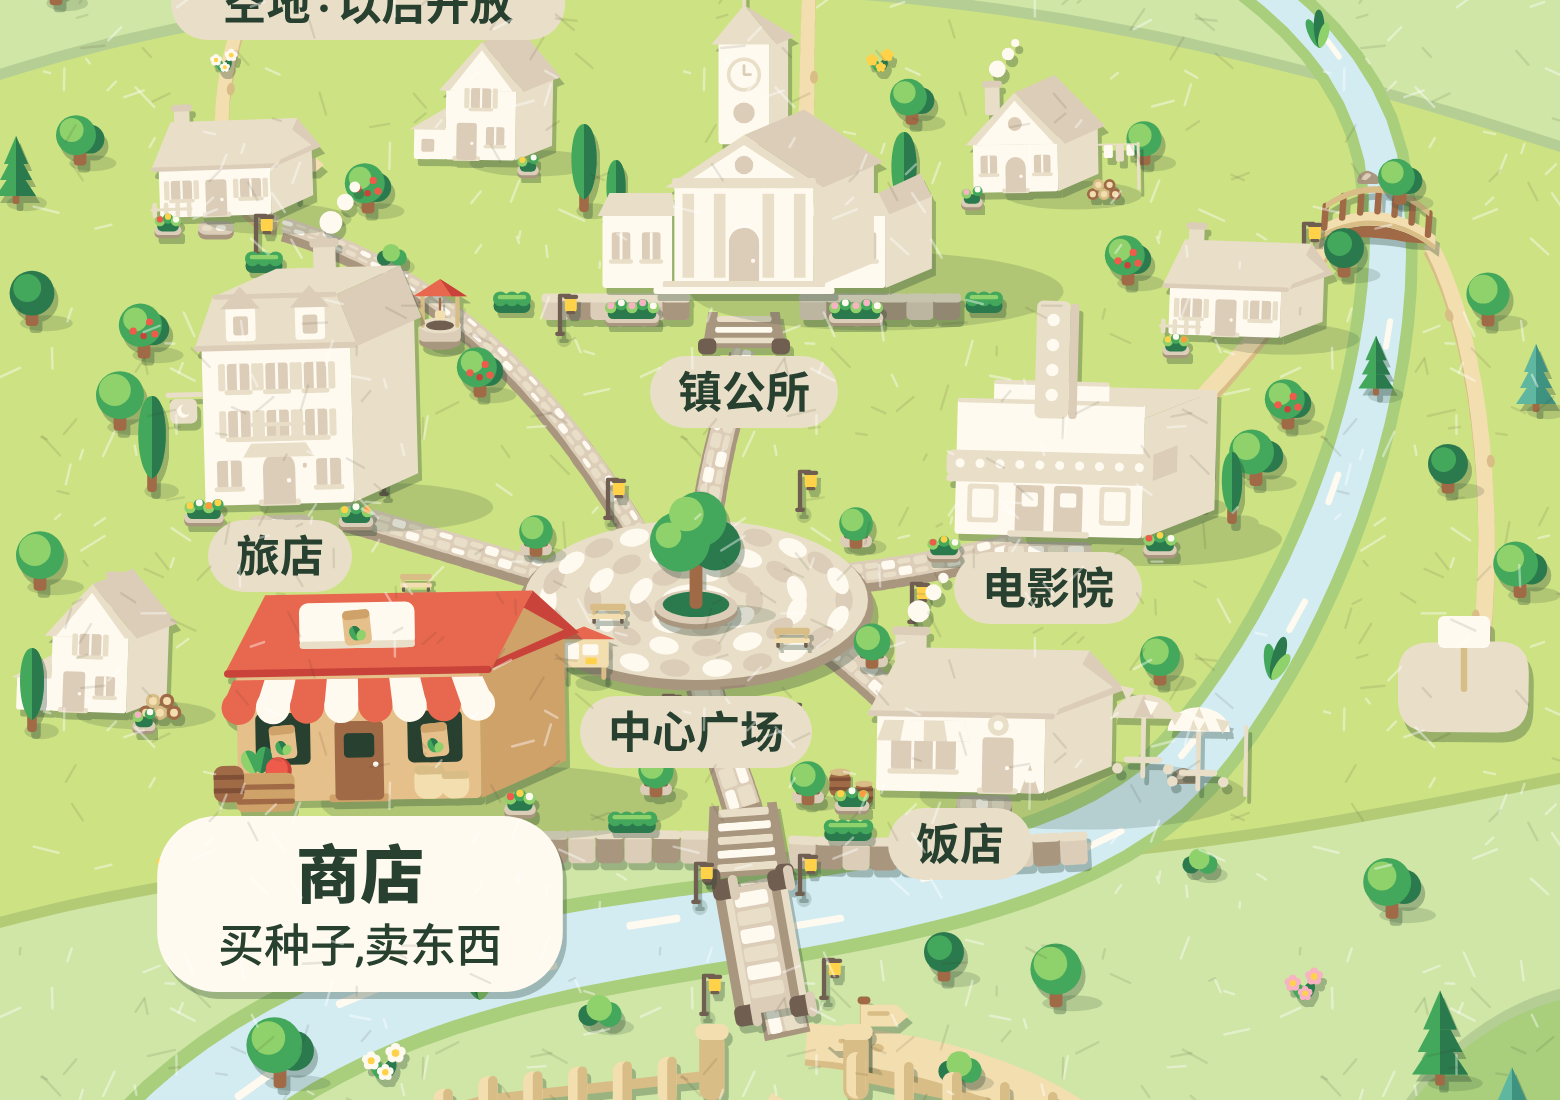
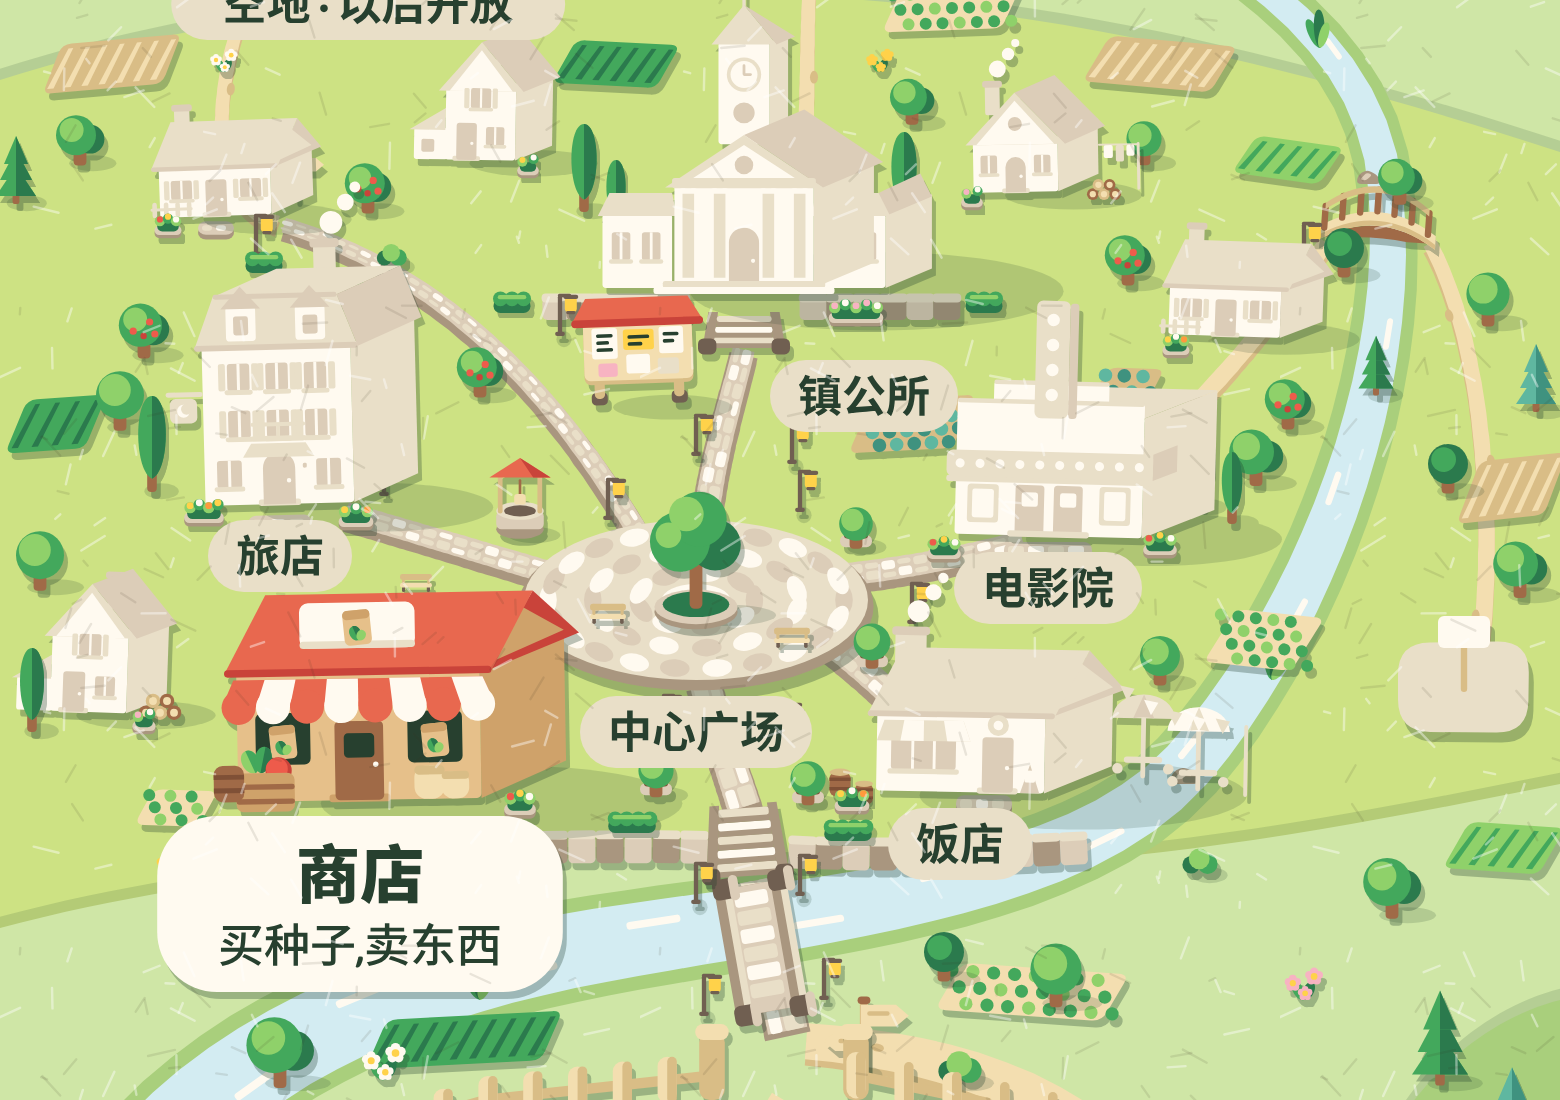
Add a notice board, move the well and add residents' fields to the town map
The owner asked for three changes to the refined town map: the well
closer to the plaza, a large notice board at the town hall door, and
fields filling the empty ground around and inside the town.

The fields are scenery only. They are drawn as slanted strips of rows
rather than the player's plot tiles, with no dry or wet soil colours and
no markers, so they are not read as plots that can be watered.

Claude-Session: https://claude.ai/code/session_01KLGgNiBMSN7hBEJrAWaBKj

diff --git a/docs/design/town-map/props.js b/docs/design/town-map/props.js
@@ -1,4 +1,4 @@
-// props.js —— 镇上的小东西:石板路、石桥、台阶、挡土墙、路灯、花坛、行道树、路牌、布告栏、水井、长椅。
+// props.js —— 镇上和镇子周围的小东西:石板路、石桥、台阶、挡土墙、路灯、花坛、行道树、路牌、告示牌、水井、长椅、居民的田。
 //
 // 负责人看过第三轮说镇上还是太简单,缺装饰。这些东西不是"地点",只是景:它们有颜色,不管旁边的房子开没开放。
 // 石头用岩石那一组(岩石浅、岩石、岩石深)加纸白暗,木头用木色,灯是一张玉米黄的纸(不发光),都没有新增颜色。
@@ -261,6 +261,86 @@
       rrect(0.6, -9, 4.6, 2.6, 0.6, C.yellow)
     );
   }
+  /** 大告示牌:立在镇公所门口。两根粗木桩,一块宽木板,顶上一道小屋檐,板上贴满了纸。 */
+  function noticeBig() {
+    return (
+      rrect(-15, -4, 5, 4, 1.4, R.rockD) +
+      rrect(10, -4, 5, 4, 1.4, R.rockD) +
+      rrect(-14, -24, 3.2, 22, 1.4, C.woodD) +
+      rrect(10.8, -24, 3.2, 22, 1.4, C.woodD) +
+      rrect(-17, -25.4, 34, 19, 2, C.woodD) +
+      rrect(-17, -26.6, 34, 19, 2, C.wood) +
+      poly(
+        [
+          [-20.6, -25.6],
+          [-16, -33.4],
+          [16, -33.4],
+          [20.6, -25.6],
+        ],
+        C.roof,
+      ) +
+      rrect(-20.6, -26.8, 41.2, 2.4, 1.2, C.redD) +
+      rrect(-14.4, -24, 8, 9.6, 0.9, C.white) +
+      rrect(-13, -22.2, 5.2, 1.1, 0.5, C.ink) +
+      rrect(-13, -20, 4, 1.1, 0.5, C.ink) +
+      rrect(-13, -17.8, 5.2, 1.1, 0.5, C.ink) +
+      rrect(-4.6, -23.4, 9.6, 6.4, 0.9, C.yellow) +
+      rrect(-3.2, -21.6, 6.8, 1.1, 0.5, C.ink) +
+      rrect(-3.2, -19.4, 4.6, 1.1, 0.5, C.ink) +
+      rrect(6.6, -24, 7.6, 8.4, 0.9, C.white) +
+      rrect(7.8, -22.2, 5, 1.1, 0.5, C.ink) +
+      rrect(7.8, -20, 3.6, 1.1, 0.5, C.ink) +
+      rrect(-3.8, -15.6, 7.4, 6, 0.9, C.white) +
+      rrect(-12.6, -13, 6, 4.2, 0.9, C.pink) +
+      rrect(6, -14.2, 6.6, 5, 0.9, C.whiteD)
+    );
+  }
+  /**
+   * 镇子周围的一块田:居民种的,只是景,不能点,也不表示任何状态。
+   * 故意画得和玩家农场里的地块不一样:是一整片斜着的田,一垄一垄的,没有一格一格的地块,没有干土和湿土,也没有水滴和星。
+   *   kind 0 刚翻过的地  1 一垄垄的菜  2 密密的青苗  3 一颗颗的包菜  4 高秆的庄稼
+   * 原点在田的正中;w、h 是宽和进深,sk 是往右上斜多少。
+   */
+  function plot(w, h, kind, sk) {
+    sk = sk == null ? h * 0.5 : sk;
+    var base = [C.woodD, C.wood, C.leafL, C.woodD, C.leaf][kind],
+      o = rpoly(
+        [
+          [-w / 2 - sk / 2, h / 2],
+          [-w / 2 + sk / 2, -h / 2],
+          [w / 2 + sk / 2, -h / 2],
+          [w / 2 - sk / 2, h / 2],
+        ],
+        2.4,
+        base,
+      ),
+      rows = Math.max(3, Math.round(w / 4.6)),
+      i,
+      j;
+    for (i = 0; i < rows; i++) {
+      var t = (i + 0.5) / rows,
+        x0 = -w / 2 + t * w;
+      // 一垄:从近处的一头斜着伸到远处的一头
+      if (kind === 0 || kind === 2 || kind === 4)
+        o += poly(
+          [
+            [x0 - sk / 2 - 0.8, h / 2 - 1.2],
+            [x0 + sk / 2 - 0.6, -h / 2 + 1.2],
+            [x0 + sk / 2 + 0.6, -h / 2 + 1.2],
+            [x0 - sk / 2 + 0.8, h / 2 - 1.2],
+          ],
+          [C.wood, '', C.leaf, '', C.leafD][kind],
+        );
+      else {
+        var n = Math.max(2, Math.round(h / 3.6));
+        for (j = 0; j < n; j++) {
+          var u = (j + 0.5) / n;
+          o += circ(x0 - sk / 2 + sk * (1 - u), h / 2 - u * h, kind === 1 ? 1.5 : 1.7, kind === 1 ? ((i + j) % 3 ? C.leaf : C.leafL) : (i + j) % 2 ? C.teal : C.tealD);
+        }
+      }
+    }
+    return o;
+  }
   /** 水井:一圈石头,两根木柱撑着一个小屋顶,横梁上吊着一只木桶。 */
   function well() {
     return (
@@ -344,6 +424,8 @@
     streetTree: streetTree,
     signpost: signpost,
     notice: notice,
+    plot: plot,
+    noticeBig: noticeBig,
     well: well,
     bench: bench,
     woodpile: woodpile,

diff --git a/docs/design/town-map/valley.js b/docs/design/town-map/valley.js
@@ -251,6 +251,38 @@
     S.ground += g('', at(190, 487, P.stoneBridge(32, 14), 80), K.SH);
     S.ground += g('', at(344, 308, P.archBridge(26, 5), 4), K.SH);
 
+    // ----- 镇子周围和镇里空着的地方:居民的田。只是景,不能点 -----
+    var plots = '';
+    [
+      // 远处,湖边的草地上:最小
+      [40, 210, 30, 7, 2, 0.8, -3],
+      [104, 206, 24, 6, 0, 0.8, 2],
+      [322, 226, 22, 6, 4, 0.8, 4],
+      // 镇子北边
+      [28, 266, 30, 12, 0, 1, -5],
+      [154, 266, 26, 11, 4, 1, 3],
+      [238, 252, 30, 11, 1, 1, -2],
+      [290, 266, 32, 12, 0, 1, 5],
+      [322, 290, 22, 10, 2, 1, 8],
+      // 镇子里
+      [228, 356, 26, 13, 3, 1, -3],
+      [86, 322, 14, 8, 1, 1, -2],
+      [282, 346, 14, 8, 3, 1, 2],
+      [44, 452, 16, 9, 1, 1, 2],
+      [14, 356, 20, 13, 4, 1, -4],
+      // 河湾里和河对岸
+      [316, 410, 22, 14, 1, 1, 6],
+      [378, 372, 22, 15, 0, 1, -6],
+      [376, 462, 24, 12, 2, 1, 4],
+      // 河这边,农场外面
+      [258, 498, 38, 11, 1, 1.1, 4],
+      [116, 510, 40, 11, 4, 1.1, -3],
+      [340, 492, 0, 0, 0, 0, 0],
+    ].forEach(function (q) {
+      if (q[2]) plots += at(q[0], q[1], P.plot(q[2], q[3], q[4]), q[6], q[5]);
+    });
+    S.ground += g('', plots, K.SH);
+
     // ----- 广场、空地 -----
     S.ground += g('', at(174, 400, P.plazaFloor(43, 20, opt.open === 'all' ? { a: C.wood, b: C.woodD } : { a: C.white, b: C.whiteD })), K.SHT);
     S.put(174, 403, P.plazaTree(), 0.8, 0, 26);
@@ -266,7 +298,7 @@
 
     // ----- 镇上:沿着缓坡错落,远的小、近的大 -----
     S.put(186, 322, B.hall(toneOf('hall', opt)), 0.58, 0, 130, 26);
-    S.tag(186, 339, '镇公所');
+    S.tag(216, 340, '镇公所');
     S.put(54, 304, B.cottage(toneOf('cottage0', opt), 0), 0.48, -2, 62, 22);
     S.put(120, 290, B.cottage(toneOf('cottage1', opt), 1), 0.46, 1, 56, 20);
     S.put(254, 298, B.cottage(toneOf('cottage2', opt), 2), 0.46, -1, 60, 22);
@@ -290,8 +322,8 @@
       [200, 378],
       [122, 412],
       [228, 406],
-      [170, 352],
-      [200, 352],
+      [174, 364],
+      [198, 366],
       [176, 504],
       [206, 500],
       [174, 476],
@@ -329,7 +361,6 @@
     [
       [132, 418, 4.6],
       [218, 416, 4.6],
-      [134, 388, 4.2],
       [214, 386, 4.2],
       [164, 448, 4.4],
       [202, 450, 4.4],
@@ -368,8 +399,10 @@
     });
     S.put(216, 518, P.signpost(), 0.8, 0, 6);
     S.put(74, 300, P.signpost(), 0.5, 0, 4);
-    S.put(146, 420, P.notice(), 0.62, 0, 12);
-    S.put(110, 336, P.well(), 0.58, 0, 14);
+    // 水井在广场边上,旅店那条路和小巷之间
+    S.put(130, 383, P.well(), 0.66, 0, 16);
+    // 镇公所门口的大告示牌
+    S.put(160, 351, P.noticeBig(), 0.8, -2, 30);
     S.put(152, 406, P.bench(), 0.56);
     S.put(198, 412, P.bench(), 0.56);
     S.put(104, 398, P.bench(), 0.5);
@@ -462,10 +495,8 @@
       [372, 330, 5.4, 0],
       [362, 372, 5, 1],
       [380, 398, 5.6, 2],
-      [8, 330, 5.6, 1],
       [10, 396, 6, 0],
       [164, 232, 3.4, 1],
-      [14, 250, 4.4, 0],
       // 河这边
       [70, 520, 7, 2],
       [264, 500, 6.4, 0],
@@ -482,7 +513,6 @@
     [
       [98, 316, 3],
       [300, 468, 3.6],
-      [150, 506, 4.4],
       [240, 520, 4.4],
       [132, 612, 4.4],
       [180, 650, 4.6],

diff --git a/docs/design/town-map/index.js b/docs/design/town-map/index.js
@@ -78,7 +78,7 @@
     '<b>一层压一层。</b>远山、两边的近山、湖边的草地、镇子所在的缓坡、农场所在的平地、脚下的山头,各是一张纸;近的压着远的,每张纸的上沿在后面那张上留一道影子。远的颜色浅,近的颜色深。',
     '<b>近大远小。</b>脚下的草丛最大,农场其次,镇子再小一号,湖边的小棚和远山上的松树最小。河从湖口的 5pt 宽到左下角的 28pt,路也是近宽远窄。',
     '<b>房子有正面、侧面和屋顶。</b>光从左上来:正面亮,右边的侧面暗,屋顶朝前的一片亮、朝右的一片暗。每栋各有各的样子:镇公所有钟塔、柱子和小旗;旅店是三层楼,有老虎窗、百叶、阳台和挑出来的招牌;饭店有粗烟囱、条纹雨棚、露台上的伞和一串小旗;电影院有竖招牌和一排小灯的檐;商店门口摆着菜箱、麻袋和木桶;小屋的阁楼里露着一捆草,屋脊上有风向标;家有门廊、花箱和信箱。',
-    '<b>镇上铺了细节。</b>镇上的路是石板路(镇外是土路),广场铺了三圈石板、正中一棵大树;主路过河是一座石桥,电影院后面还有一座小拱桥;镇子比河边高出一截,用一道矮石墙托着,主路在墙上开一段台阶,镇公所前面也有石台和台阶;路边有路灯、行道树、苹果树、瘦高的树、树篱,门前有花坛,路口有路牌,广场边有布告栏和长椅,巷子里有一口水井。这些是景不是地点,所以有颜色。',
+    '<b>镇上铺了细节。</b>镇上的路是石板路(镇外是土路),广场铺了三圈石板、正中一棵大树;主路过河是一座石桥,电影院后面还有一座小拱桥;镇子比河边高出一截,用一道矮石墙托着,主路在墙上开一段台阶,镇公所前面也有石台和台阶;路边有路灯、行道树、苹果树、瘦高的树、树篱,门前有花坛,路口有路牌,镇公所门口立着一块大告示牌,广场边有一口水井和几张长椅。镇子周围和镇里空着的地方补了十几块居民的田,画成一整片斜着的、一垄一垄的田,和玩家农场里一格一格的地块不一样。这些是景不是地点,所以有颜色。',
     '<b>地上有影子。</b>每样立着的东西在地上有一片影子,朝背着太阳(或月亮)的那一边倒:上半个游戏日往右,下半个往左。加上原来就有的硬边投影,一共两层。',
   ]);
 

diff --git a/docs/design/town-map/README.md b/docs/design/town-map/README.md
@@ -71,7 +71,10 @@
 - **桥。** 主路过河换成石桥;电影院后面多了一座小拱桥,通到河对岸的空地。
 - **台阶和石墙。** 镇子比河边高出一截,用一道矮石墙托着,主路在墙上开一段台阶;镇公所前面有石台和台阶。
 - **路灯、树、花。** 路边的路灯,栽在树池里的行道树,苹果树,瘦高的树,树篱;每栋房子门前的花坛。
-- **招牌和别的。** 路口的木路牌,广场边的布告栏和长椅,巷子里的水井,柴垛,木桶。
+- **招牌和别的。** 路口的木路牌,镇公所门口的大告示牌,广场边的水井和长椅,柴垛,木桶。
+- **居民的田。** 镇子周围和镇里空着的地方补了十几块田:刚翻过的地、一垄垄的菜、青苗、包菜、高秆的庄稼。
+  它们只是景,不能点,也不表示任何状态,所以故意画得和玩家农场里的地块不一样:是一整片斜着的、一垄一垄的田,
+  没有一格一格的地块,不用干土和湿土的颜色,没有水滴和星。
 
 这些东西是景,不是地点:它们有颜色,不管旁边的房子开没开放;都不能点。没有新增颜色:石头用岩石那一组加纸白暗,
 灯是一张玉米黄的纸(和矿洞里那盏一样不发光)。
